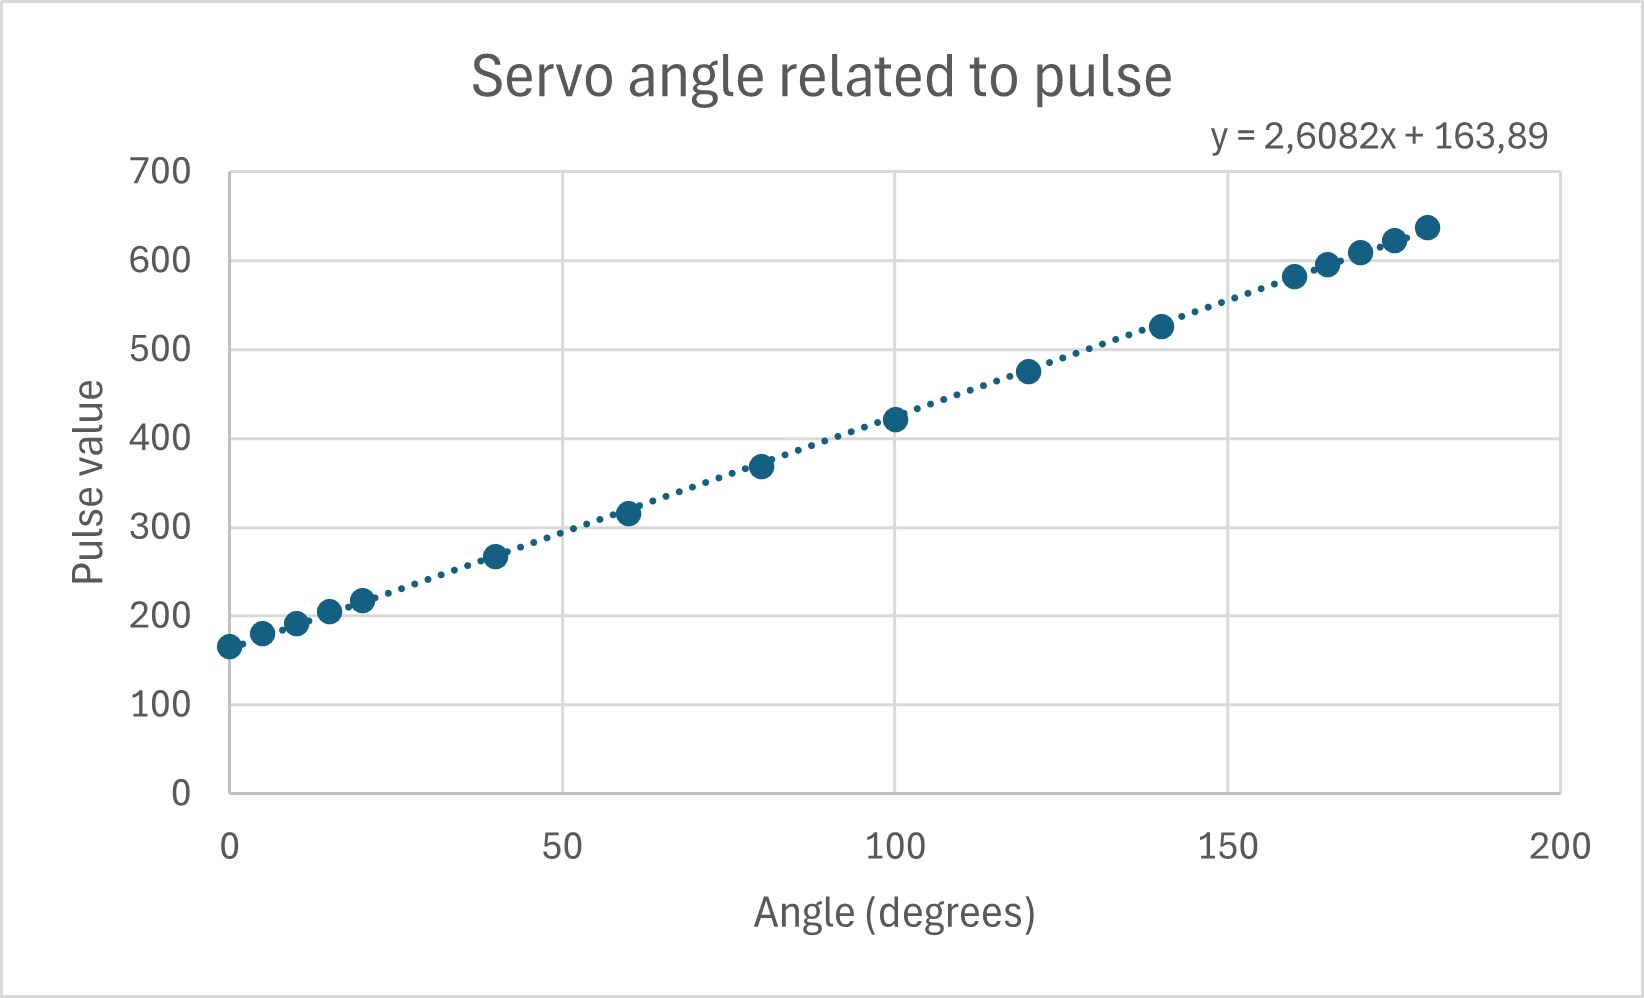
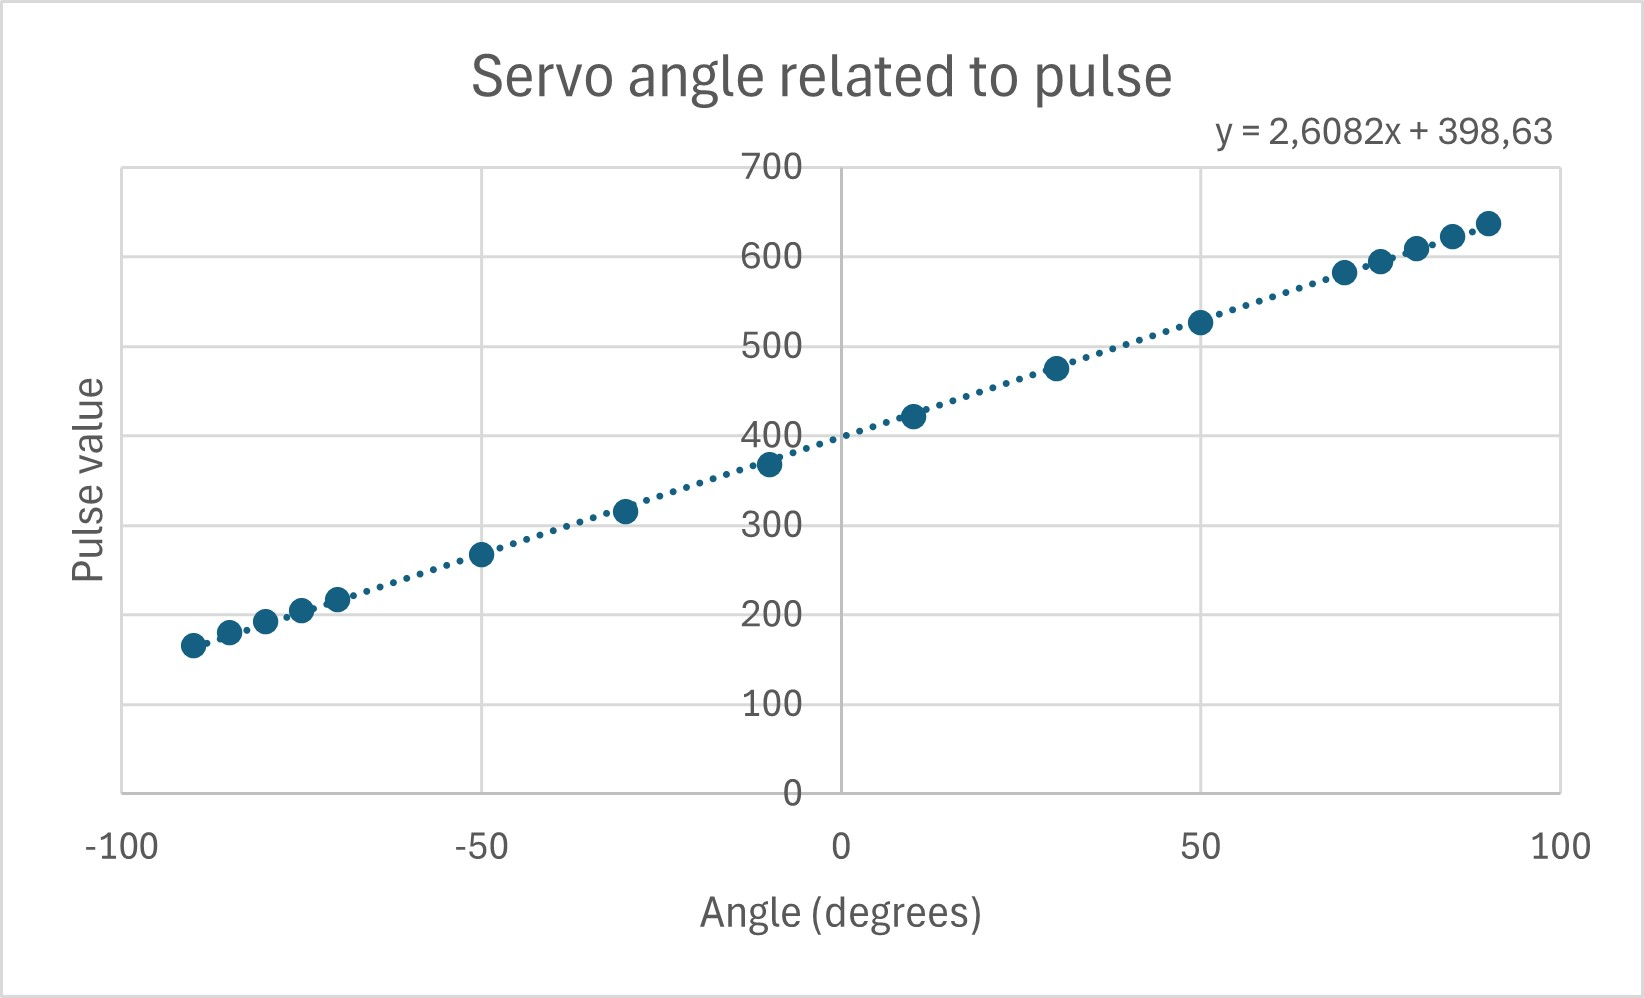
Calibration values test

diff --git a/main.js b/main.js
@@ -465,7 +465,7 @@ function setupPlatform() {
             // Options for adapted arduino angles
             calibrationData: {
               middlePos: [381, 395, 379, 396, 382, 404],
-              amplitude: [229, 234, 238, 225, 234, 239],
+              slope: [2.608, 2.608, 2.608, 2.608, 2.608, 2.608],
               direction: [1, -1, 1, -1, 1, -1]
             },
             addDigitalOut: false, // Add column in the beginning with digital output value, as a prevision for more customization.
@@ -491,11 +491,14 @@ function setupPlatform() {
           for (let i = 0; i < rawData.length; i++) {
             for (let j = 0; j < rawData[i].length; j++) {
               if (j !== 6) {
+                const angleDegrees = rawData[i][j] * 180 / Math.PI
+                const b = calibrationData.middlePos[j]
+                const m = calibrationData.slope[j]
                 if (calibrationData.direction[j] === -1) {
-                  rawData[i][j] = Math.floor(calibrationData.middlePos[j] -1 * rawData[i][j] * calibrationData.amplitude[j] * 2 / Math.PI)
+                  rawData[i][j] = Math.floor(-angleDegrees * m + b)
                 }
                 else {
-                  rawData[i][j] = Math.ceil(calibrationData.middlePos[j] + rawData[i][j] * calibrationData.amplitude[j] * 2 / Math.PI)
+                  rawData[i][j] = Math.ceil(angleDegrees * m + b)
                 }
               }
             }
@@ -538,13 +541,13 @@ function setupPlatform() {
             console.log(indexesToRemove.length + ' redundant rows removed.')
           }
     
-          // Add column form digital_out, for now all 0x0, but is a prevision for future changes.
+          // Add column for digital_out, for now all 0x0, but is a prevision for future changes.
           if (options.addDigitalOut) {
             for (let i = 0; i < rawData.length; i++) {
               rawData[i].unshift('0x0')
             }
           }
-
+          console.table(rawData)
           return rawData
         }
     
@@ -600,6 +603,7 @@ function setupPlatform() {
             let order = [' PWM Frequency: 60.0 Hz', ' Library: PCA9685', ' Middle pos:', ' Amplitude:', ' Direction:', '', '', '']
             let headerText = '//\t ----- ' + 'Animation data' + ' -----\n// Name: ' + data.info.name + '\n// Distance to wall: ' + data.info.distanceToWall + ' mm\n// Rotation axis offset: ' + data.info.rotationAxisOffset + ' mm\n// Drawing size: ' + data.info.drawingSize + " mm x " + data.info.drawingSize + " mm\n// Number of steps: " + numberOfSteps + '\n//\n//\t ----- Calibration values -----'
             for (i=0; i < order.length; i++) {
+              console.table(tableToDownload)
               headerText += '\n//'+ order[i] +'\t' + tableToDownload.shift().join('\t,\t')
             }
             const bodyText = tableToDownload.map(row => row.join('\t,\t')).join('\n{')
